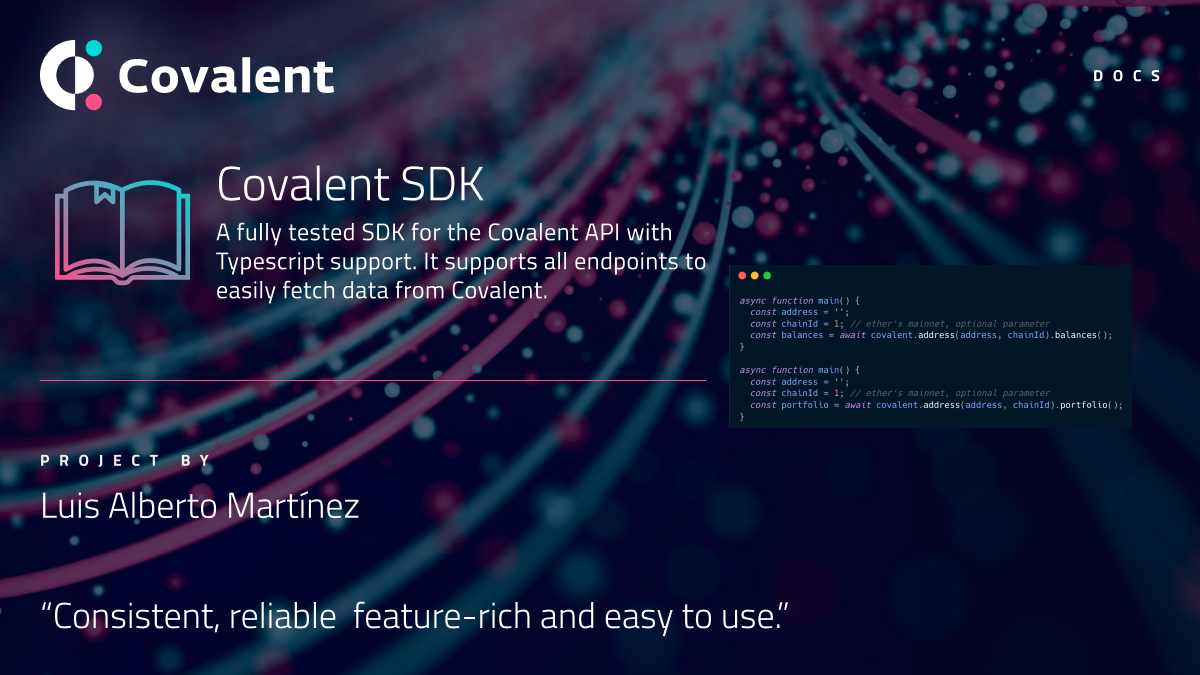
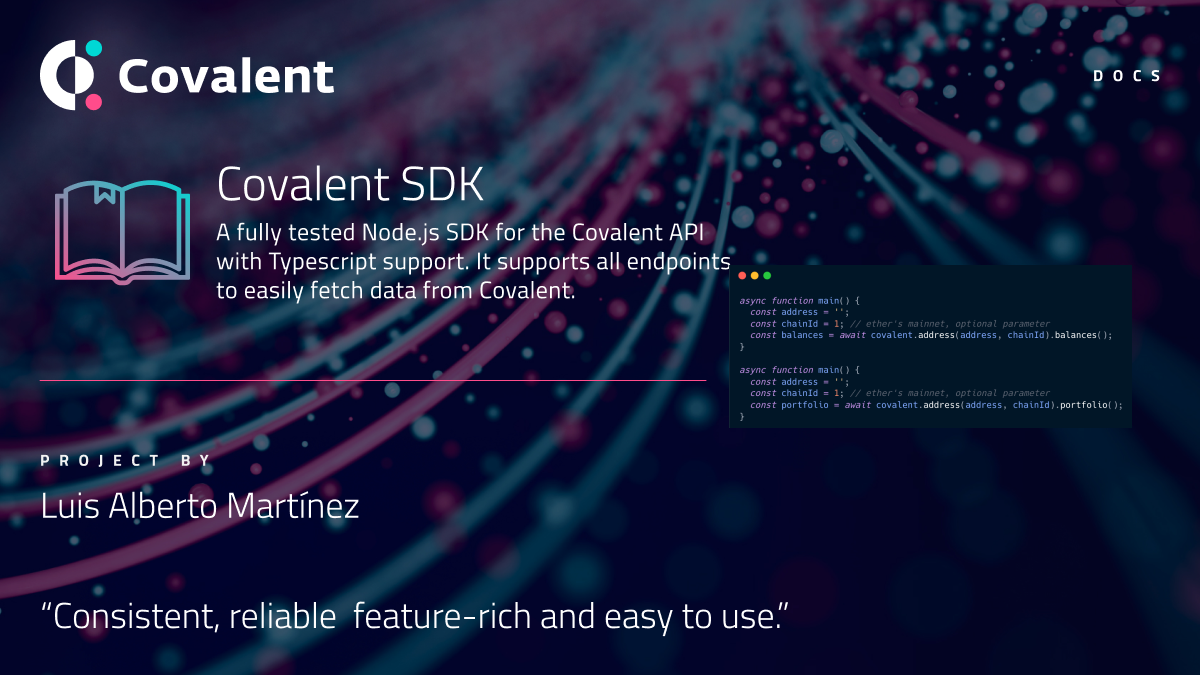
edited Covalent-sdk to reflect Node sdk

Changed region(s): [[0.185, 0.3111, 0.6167, 0.4667]]

diff --git a/content/en/docs/project-showcase/tools/covalent-sdk.md b/content/en/docs/project-showcase/tools/covalent-sdk.md
@@ -3,7 +3,7 @@ title: Covalent SDK
 weight: 2
 hidden: false
 featuredImage: /static/images/project-showcase/banners/covalent-sdk.png
-description: A fully tested SDK for the Covalent API with Typescript support. It supports all endpoints to easily fetch data from Covalent.
+description: A fully tested Node SDK for the Covalent API with Typescript support. It supports all endpoints to easily fetch data from Covalent.
 ---
 
 ![Covalent SDK Banner](/static/images/project-showcase/banners/covalent-sdk.png)
